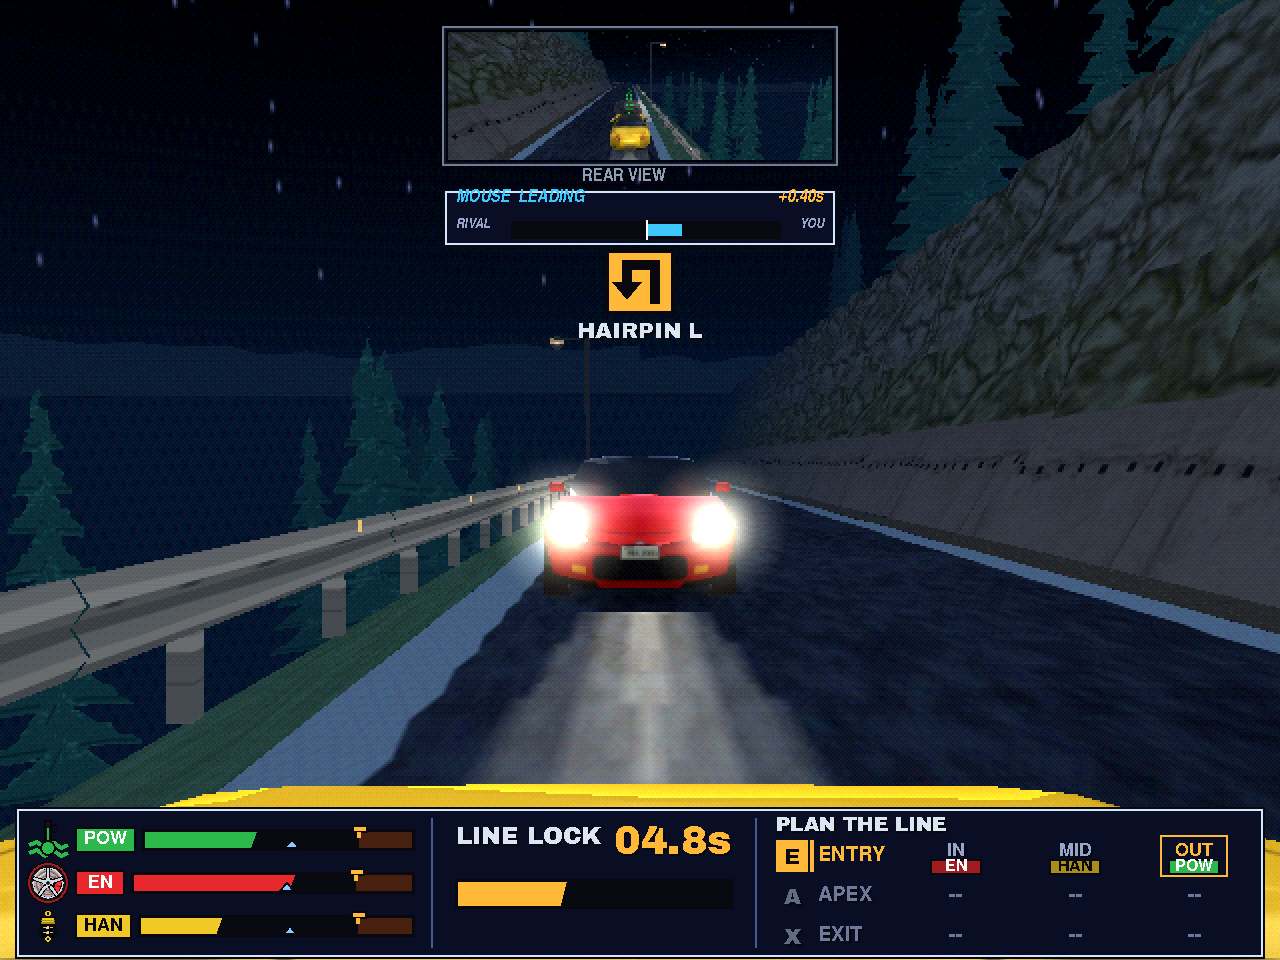
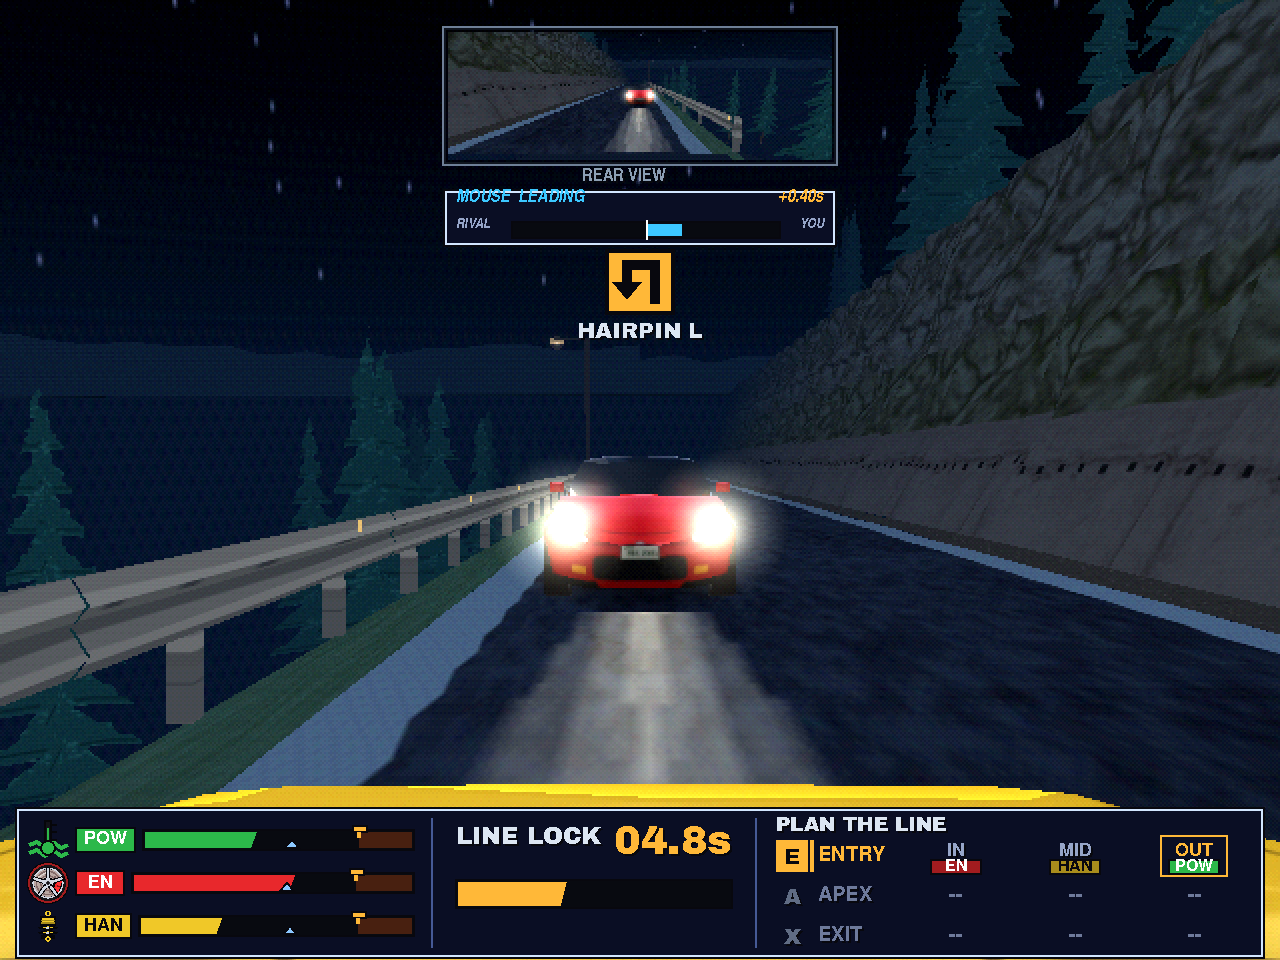
Art: head-on look-back keeps the normal rear-view mirror

Changed region(s): [[0.3438, 0.0312, 0.6562, 0.1875]]

diff --git a/unapproved/arthur/mockups/districts/make_sheet.py b/unapproved/arthur/mockups/districts/make_sheet.py
@@ -55,7 +55,7 @@ for r, (suf, gl) in enumerate(GAPS):
 ms.save(os.path.join(HERE, 'mouse_options_sheet.png')); print('mouse options', ms.size)
 
 # lookback_vs_cat.png: head-on look-back mouse (10 m) next to the standard cat frame
-VS = [('mouse_lookback_headon', 'MOUSE  LOOK-BACK (HEAD-ON)', 'rival ~10 m behind, mirror shows the road ahead'),
+VS = [('mouse_lookback_headon', 'MOUSE  LOOK-BACK (HEAD-ON)', 'rival ~10 m behind, mirror is the normal rear view'),
       ('touge_cat', 'CAT  STANDARD CHASE', 'rival ~11 m ahead, mirror shows behind')]
 vs = Image.new('RGB', (PAD + 2 * (W + PAD), TOP + H + PAD), (11, 23, 43))
 d = ImageDraw.Draw(vs)

diff --git a/unapproved/arthur/mockups/districts/README.md b/unapproved/arthur/mockups/districts/README.md
@@ -78,10 +78,9 @@ Austin: "I like the look back cam, but the mirror should stay as the mirror. The
 
 - **`mouse_lookback_headon.png` (about 10 m) and `mouse_lookback_headon_far.png` (about 24 m):**
   - **Main view:** a centred reverse camera (mode `headon`), placed 1.0 m back from the car's centre and 1.22 m up, just above the rear deck. It looks straight back down the road along the player's line, 30 m back. The rival sits dead centre in the same lane (no lateral nudge), so it comes straight at the camera. Only a thin sliver of the yellow rear deck shows at the bottom edge, above the HUD band.
-  - **Mirror:** the original E3B mirror, at the same rect (224,16,192×64), frame and REAR VIEW label. In this mode it shows the other way: the standard forward chase view, unflipped, with the player car, chevrons and road ahead.
+  - **Mirror:** the original E3B rear view, unchanged in size, position, frame, label and direction (it shows what is behind the player, same as `touge_mouse.png`). Austin: "No, the rear view will always stay a rear view."
   - **HUD:** turn sign, HAIRPIN L and the tie-gap box are in their standard places; the HUD band is unchanged.
 - **`lookback_vs_cat.png`:** the head-on mouse at 10 m next to `touge_cat.png`.
-- **Open:** the "REAR VIEW" label is now technically wrong in look-back mode, because the mirror shows the road ahead. I left it as asked; one option is a mode-swapped label such as "AHEAD".
 
 ## Open points
 - The course is unchanged in all three: the same 45 m straight into HP L (R 14 m), so the HUD reads HAIRPIN L everywhere. A real Wangan would more likely be a fast sweeper. That's a Design / Gordon call.

diff --git a/CHANGELOG.md b/CHANGELOG.md
@@ -8,6 +8,12 @@
 
 ---
 
+## 2026-11-13 — Arthur [art]: Head-on look-back, the mirror is a rear view again
+
+- **Why:** Austin, 2026-11-13: "No, the rear view will always stay a rear view."
+- **What (`unapproved/arthur/mockups/districts/`):** In `mouse_lookback_headon(_far).png` the E3B mirror is now the normal rear view, the same as in `touge_mouse.png`. Its size, position, frame and REAR VIEW label are unchanged. I re-rendered both frames and `lookback_vs_cat.png`. Everything else from 5561df0 is unchanged, and the README no longer lists the label as open.
+- **Note:** in look-back mode, nothing on screen shows the road ahead now. Only the turn sign and the HUD hint at the corner.
+
 ## 2026-11-13 — Arthur [art]: Touge mouse look-back, revised to head-on (Austin picked option B)
 
 - **Why:** Austin, 2026-11-13: "I like the look back cam, but the mirror should stay as the mirror. The mirror should stay the same size. The look back cam should be a head on, instead of this angled view."
